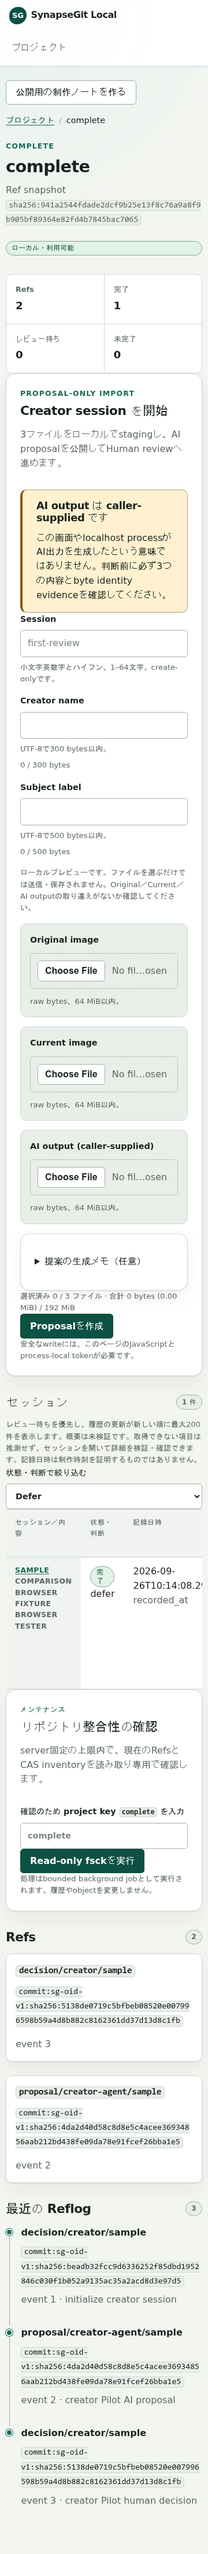
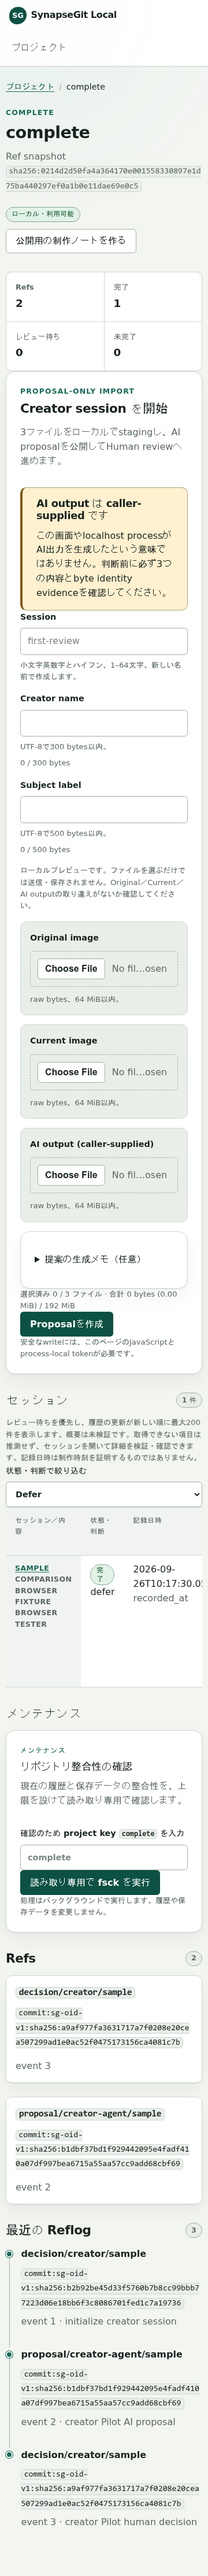
fix(local): align dashboard actions and maintenance layout

diff --git a/crates/synapse-local-http/templates/project.html b/crates/synapse-local-http/templates/project.html
@@ -1,7 +1,6 @@
 {% extends "base.html" %}
 
 {% block content %}
-<p class="project-presentation-action"><a class="button button--secondary" href="/projects/{{ project_key }}/presentation">公開用の制作ノートを作る</a></p>
 <nav class="breadcrumbs" aria-label="パンくずリスト">
   <ol><li><a href="/">プロジェクト</a></li><li aria-current="page">{{ project_label }}</li></ol>
 </nav>
@@ -11,7 +10,10 @@
     <h1>{{ project_label }}</h1>
     <p class="muted">Ref snapshot <code>{{ watermark }}</code></p>
   </div>
-  <span class="status-badge" data-tone="success">ローカル・利用可能</span>
+  <div class="actions">
+    <span class="status-badge" data-tone="success">ローカル・利用可能</span>
+    <a class="button button--secondary" href="/projects/{{ project_key }}/presentation">公開用の制作ノートを作る</a>
+  </div>
 </header>
 
 <section class="metric-grid" aria-label="プロジェクト概要">
@@ -70,7 +72,7 @@
       <div class="field">
         <label for="creator-session">Session</label>
         <input id="creator-session" name="session" required maxlength="64" pattern="[a-z][a-z0-9-]{0,63}" aria-describedby="creator-session-hint" autocomplete="off" placeholder="first-review">
-        <span id="creator-session-hint" class="field__hint">小文字英数字とハイフン、1–64文字。create-onlyです。</span>
+        <span id="creator-session-hint" class="field__hint">小文字英数字とハイフン、1–64文字。新しい名前で作成します。</span>
       </div>
       <div class="field">
         <label for="creator-name">Creator name</label>
@@ -148,13 +150,15 @@
   {% endif %}
 </section>
 
+<section aria-labelledby="maintenance-heading">
+  <div class="section-heading"><h2 id="maintenance-heading">メンテナンス</h2></div>
 {% if fsck_supported %}
 <section class="card project-maintenance" aria-labelledby="fsck-heading">
   <div class="card__header">
     <div>
       <p class="eyebrow">メンテナンス</p>
-      <h2 id="fsck-heading">リポジトリ整合性の確認</h2>
-      <p class="muted">server固定の上限内で、現在のRefsとCAS inventoryを読み取り専用で確認します。</p>
+      <h3 id="fsck-heading">リポジトリ整合性の確認</h3>
+      <p class="muted">現在の履歴と保存データの整合性を、上限を設けて読み取り専用で確認します。</p>
     </div>
   </div>
   {% if has_last_fsck %}
@@ -170,17 +174,17 @@
     data-synapse-api-form="json"
     data-confirm-maintenance="fsck"
     data-success-reload="true"
-    data-busy-message="Integrity checkをqueueしています…"
+    data-busy-message="整合性の確認を開始しています…"
   >
     <label class="field">
       <span>確認のため project key <code>{{ project_key }}</code> を入力</span>
       <input name="confirm_project_key" required maxlength="64" pattern="[a-z][a-z0-9-]{0,63}" autocomplete="off" placeholder="{{ project_key }}">
     </label>
-    <div class="actions"><button type="submit" data-synapse-submit>Read-only fsckを実行</button></div>
-    <p class="field__hint">処理はbounded background jobとして実行されます。履歴やobjectを変更しません。</p>
+    <div class="actions"><button type="submit" data-synapse-submit>読み取り専用で fsck を実行</button></div>
+    <p class="field__hint">処理はバックグラウンドで実行します。履歴や保存データを変更しません。</p>
     <p data-synapse-status hidden></p>
   </form>
-  <noscript><div class="notice" data-tone="warning"><p>JavaScriptが無効なため、maintenance操作は開始できません。</p></div></noscript>
+  <noscript><div class="notice" data-tone="warning"><p>JavaScriptが無効なため、メンテナンス操作は開始できません。</p></div></noscript>
 </section>
 {% endif %}
 
@@ -189,13 +193,13 @@
   <div class="card__header">
     <div>
       <p class="eyebrow">メンテナンス</p>
-      <h2 id="archive-export-heading">アーカイブを書き出す</h2>
-      <p class="muted">現在のプロジェクトをserver固定の上限内で、設定済みの保存先へチェックサム付きで保存します。</p>
+      <h3 id="archive-export-heading">アーカイブを書き出す</h3>
+      <p class="muted">現在のプロジェクトを、設定済みの保存先へチェックサム付きで保存します。</p>
     </div>
   </div>
   <div class="notice" data-tone="warning">
-    <h3>既存archiveは上書きしません</h3>
-    <p>archive nameは新しいlogical slugを指定してください。保存先のfilesystem pathはserver設定が所有し、この画面には公開されません。</p>
+    <h3>既存のアーカイブは上書きしません</h3>
+    <p>新しいアーカイブ名を指定してください。保存先は起動時の設定で固定され、この画面から変更できません。</p>
   </div>
   <form
     hidden
@@ -204,25 +208,25 @@
     data-synapse-api-form="json"
     data-confirm-maintenance="archive-export"
     data-success-location="/#archives-heading"
-    data-busy-message="Archive exportをqueueしています…"
+    data-busy-message="アーカイブの書き出しを開始しています…"
   >
     <div class="form-grid">
       <label class="field">
         <span>Archive name</span>
         <input name="archive_name" required maxlength="64" pattern="[a-z][a-z0-9-]{0,63}" autocomplete="off" placeholder="nightly-2026-08-26">
-        <span class="field__hint">小文字英数字とハイフン、1–64文字。create-onlyです。</span>
+        <span class="field__hint">小文字英数字とハイフン、1–64文字。新しい名前で作成します。</span>
       </label>
       <label class="field">
         <span>確認のため project key <code>{{ project_key }}</code> を入力</span>
         <input name="confirm_project_key" required maxlength="64" pattern="[a-z][a-z0-9-]{0,63}" autocomplete="off" placeholder="{{ project_key }}">
-        <span class="field__hint">対象projectのexact confirmationとして送信されます。</span>
+        <span class="field__hint">操作対象を確認するため、表示された値をそのまま入力してください。</span>
       </label>
     </div>
     <div class="actions"><button type="submit" data-synapse-submit>Archiveを作成</button></div>
-    <p class="field__hint">処理はbounded background jobとして実行され、成功後にarchive一覧へ移動します。</p>
+    <p class="field__hint">処理はバックグラウンドで実行し、成功後にアーカイブ一覧へ移動します。</p>
     <p data-synapse-status hidden></p>
   </form>
-  <noscript><div class="notice" data-tone="warning"><p>JavaScriptが無効なため、archive exportは開始できません。</p></div></noscript>
+  <noscript><div class="notice" data-tone="warning"><p>JavaScriptが無効なため、アーカイブの書き出しは開始できません。</p></div></noscript>
 </section>
 {% endif %}
 
@@ -231,7 +235,7 @@
   <div class="card__header">
     <div>
       <p class="eyebrow">メンテナンス</p>
-      <h2 id="archive-restore-heading">アーカイブを復元する</h2>
+      <h3 id="archive-restore-heading">アーカイブを復元する</h3>
       <p class="muted">保存したアーカイブを、このプロジェクトへ復元します。</p>
     </div>
   </div>
@@ -275,9 +279,11 @@
     <p>既存の履歴があります。復元用には別の空のプロジェクトを初期化・登録してから開いてください。</p>
   </div>
   {% endif %}
-  <noscript><div class="notice" data-tone="warning"><p>JavaScriptが無効なため、archive restoreは開始できません。</p></div></noscript>
+  <noscript><div class="notice" data-tone="warning"><p>JavaScriptが無効なため、アーカイブの復元は開始できません。</p></div></noscript>
 </section>
 {% endif %}
+
+</section>
 
 <div class="split-grid project-detail">
   <section aria-labelledby="refs-heading">
